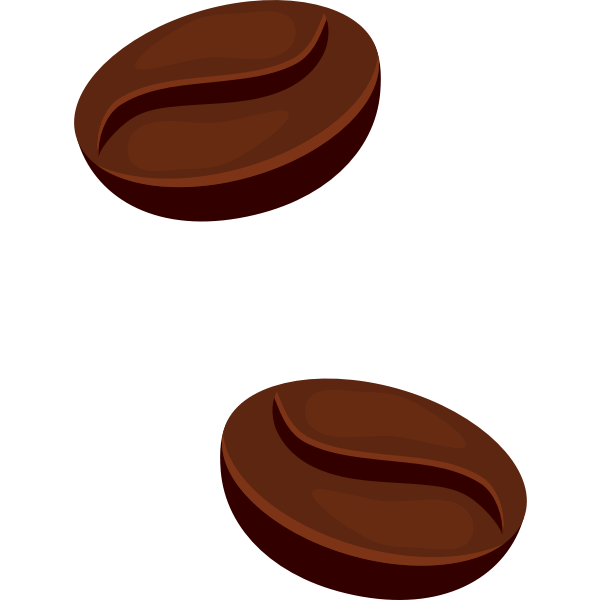
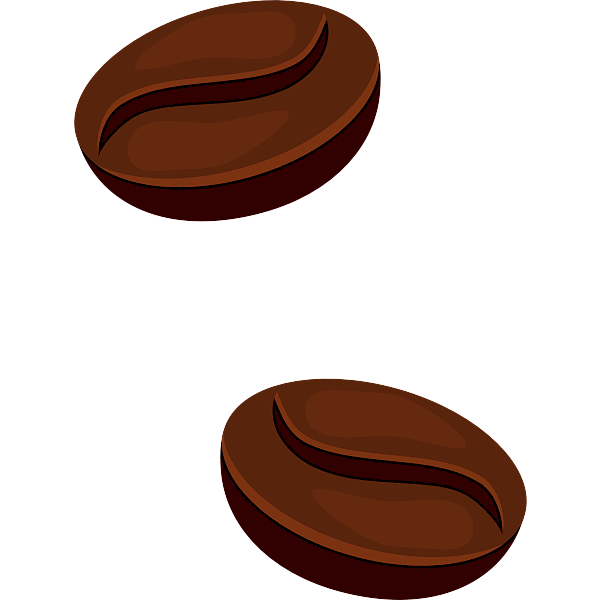
u bg color and comps

diff --git a/src/app/components/TodayMenu.tsx b/src/app/components/TodayMenu.tsx
@@ -1,50 +1,49 @@
-// components/TodayMenu.tsx
-
 const menuItems = [
     {
         title: "Classic Espresso",
         price: "45 Bath",
-        image: "/images/menu/menu4.jpg",
+        image: "/images/menu/menu3.jpeg",
         description:
-            "A rich, bold shot of pure espresso made from Northern Thai Arabica beans. Perfect to start your day.",
+            "Bold Northern Thai espresso — rich and energizing.",
     },
     {
         title: "Iced Thai Latte",
         price: "40 Bath",
-        image: "/images/menu/menu4.jpg",
+        image: "/images/menu/menu5.jpg",
         description:
-            "A refreshing blend of strong coffee, creamy milk, and a touch of sweetness served over ice.",
+            "Chilled Thai coffee with creamy sweetness.",
     },
     {
         title: "Drip Brew (Pour Over)",
-        price: "50 Bath",
-        image: "/images/menu/menu4.jpg",
+        price: "40 Bath",
+        image: "/images/menu/menu7.jpg",
         description:
-            "Slow-brewed using freshly ground beans from Chiang Mai's Doi Chang region. Smooth and aromatic.",
+            "Smooth pour-over from Chiang Mai’s finest beans.",
     },
     {
         title: "Cofee Matcha",
         price: "55 Bath",
-        image: "/images/menu/menu4.jpg",
+        image: "/images/menu/menu6.jpg",
         description:
-            "A vibrant matcha latte with a bold espresso shot layered on top. Earthy meets energizing.",
+            "Matcha and espresso blend — earthy and bold.",
     },
 ];
 
+
 export default function TodayMenu() {
     return (
-        <section className="text-white px-6 py-16">
+        <section className=" px-6 py-16">
             <div className="max-w-6xl mx-auto">
                 <div className="text-center mb-12">
                     <h2 className="text-3xl md:text-4xl font-bold italic mb-4">
                         Today's Menu
                     </h2>
-                    <p className="text-gray-400 max-w-xl mx-auto">
+                    <p className="max-w-xl mx-auto">
                         Explore our handcrafted selection of coffee drinks — each brewed
                         with beans sourced from local farms in Northern Thailand.
                     </p>
                 </div>
-                <div className="grid sm:grid-cols-2 lg:grid-cols-4 gap-10">
+                <div className="grid px-8 sm:px-3 sm:grid-cols-2 lg:grid-cols-4 gap-10">
                     {menuItems.map((item, index) => (
                         <div
                             key={index}
@@ -53,12 +52,12 @@ export default function TodayMenu() {
                             <img
                                 src={item.image}
                                 alt={item.title}
-                                className="w-40 h-40 object-cover rounded-md mb-4"
+                                className="w-30 h-30 object-cover rounded-md mb-4"
                             />
                             <div>
                                 <h3 className="text-xl font-semibold">{item.title}</h3>
                                 <p className="text-yellow-400 text-lg font-bold mb-2">{item.price}</p>
-                                <p className="text-gray-400 text-sm">{item.description}</p>
+                                <p className="text-sm">{item.description}</p>
                             </div>
                         </div>
                     ))}

diff --git a/src/app/components/layout/Footer.tsx b/src/app/components/layout/Footer.tsx
@@ -2,11 +2,12 @@ import { FaFacebookF, FaLinkedinIn, FaTwitter, FaDribbble } from "react-icons/fa
 
 export default function Footer() {
     return (
-        <footer className=" text-gray-400 px-6 py-10">
-            <div className="max-w-7xl mx-auto grid grid-cols-1 md:grid-cols-2 lg:grid-cols-4 gap-6 text-sm">
+        <footer className=" px-6 py-10">
+            <div className="max-w-2xl mx-auto grid grid-cols-2 gap-4 text-sm">
+                
                 {/* DailyDrip Section */}
                 <div>
-                    <h4 className="text-white text-lg font-semibold mb-2">DailyDrip</h4>
+                    <h4 className=" text-lg font-semibold mb-2">DailyDrip</h4>
                     <p>
                         A cozy coffee space in the heart of Chiang Mai, brewing locally sourced beans and delivering bold flavors with warm vibes.
                     </p>
@@ -14,7 +15,7 @@ export default function Footer() {
 
                 {/* Contact Info */}
                 <div>
-                    <h4 className="text-white text-lg font-semibold mb-2">CONTACT INFORMATION</h4>
+                    <h4 className=" text-lg font-semibold mb-2">CONTACT INFORMATION</h4>
                     <ul className="space-y-2">
                         <li>123 Nimmanhaemin Road,</li>
                         <li>Chiang Mai, Thailand 50200</li>
@@ -26,8 +27,8 @@ export default function Footer() {
             </div>
 
             {/* Bottom Line */}
-            <div className="mt-6 border-t border-gray-700 pt-6 text-center text-xs text-gray-500">
-                <p>
+            <div className="mt-6 border-t border-gray-700 pt-6 text-center text-xs">
+                <div>
                     © 2025 DailyDrip. All Rights Reserved. Designed by{" "}
                     <a href="https://bossbsynth.com" target="_blank" rel="noopener noreferrer" className="text-red-500 hover:underline">BossBsynth</a>{" "}
                     <div>
@@ -36,12 +37,12 @@ export default function Footer() {
                         and
                         <a href="https://www.pexels.com/photo/capturing-coffee-moment-with-smartphone-29074308/" className="text-red-500 hover:underline" target="_blank" rel="noopener noreferrer"> pexels </a>
                     </div>
-                </p>
+                </div>
 
                 {/* Social Icons */}
                 <div className="flex justify-center mt-4 gap-5 text-red-500 text-lg">
 
-                    <a href="#" className="hover:text-white"><FaFacebookF /></a>
+                    <a href="#"><FaFacebookF /></a>
                 </div>
             </div>
         </footer>

diff --git a/src/app/components/About.tsx b/src/app/components/About.tsx
@@ -1,32 +1,36 @@
-// components/About.tsx
+import BeanFloat from "./deco/BeanFloat";
 
 export default function About() {
     return (
-        <section className="text-white px-6 py-12 md:py-20">
-            <div className="max-w-5xl mx-auto">
+        <section className="px-8 sm:px-12 py-12 md:py-20">
+            <div className="max-w-5xl mx-auto relative">
                 <div className="mb-8">
                     <img
-                        src="/images/cofee/cofee.jpg"
+                        src="/images/gal/about.jpg"
                         alt="Cafe interior"
-                        className="h-60 md:h-80 w-full object-cover rounded-md shadow-lg"
+                        className="h-50 w-full md:h-80 object-cover rounded-md shadow-lg"
                     />
                 </div>
                 <h2 className="text-3xl md:text-4xl font-bold italic mb-6">
                     About DailyDrip
                 </h2>
-                <p className="text-gray-300 mb-4 leading-relaxed indent-5">
+                <p className="mb-3 leading-relaxed indent-5">
                     Located in the heart of Chiang Mai, DailyDrip is a cozy spot for coffee
                     lovers, creatives, and travelers. We brew with locally sourced beans from
                     Northern Thailand, roasted fresh in small batches.
                 </p>
-                <p className="text-gray-300 mb-6 leading-relaxed indent-5">
+                <p className="mb-6 leading-relaxed indent-5">
                     Whether you're grabbing a quick espresso or settling in to work, DailyDrip
                     brings you great coffee and warm vibes — one cup at a time.
                 </p>
 
-                <button className="border border-white text-white px-6 py-2 uppercase tracking-wide hover:bg-white hover:text-black hover-r">
+                <button className="border px-6 py-2 uppercase tracking-wide hover-r">
                     Our History
                 </button>
+
+                <div className="absolute bottom-0 -right-2 md:-right-4 opacity-70">
+                    <BeanFloat />
+                </div>
             </div>
         </section>
     );

diff --git a/src/app/components/ReviewCard.tsx b/src/app/components/ReviewCard.tsx
@@ -34,7 +34,7 @@ export default function ReviewCard() {
     const { name, text, image, rating } = reviews[current];
 
     return (
-        <section className="px-4 py-16 text-white">
+        <section className="px-4 py-16">
             <div className="max-w-2xl px-8 mx-auto relative">
                 <div className="relative rounded-md overflow-hidden shadow-lg">
                     <img
@@ -42,7 +42,7 @@ export default function ReviewCard() {
                         alt={name}
                         className="w-full h-[450px] object-cover"
                     />
-                    <div className="absolute inset-0 bg-black/70 p-8 flex flex-col justify-center">
+                    <div className="absolute inset-0 bg-white/40 p-10 md:p-14 flex flex-col justify-center">
                         <p className="text-lg italic mb-4 max-w-xl">{text}</p>
                         <div className="flex items-center gap-1 mb-2">
                             {[...Array(rating)].map((_, i) => (

diff --git a/src/app/components/Hero.tsx b/src/app/components/Hero.tsx
@@ -1,12 +1,12 @@
 export default function Hero() {
     return (
-        <section className="relative h-screen flex items-center justify-center bg-black">
+        <section className="relative h-screen flex items-center justify-center">
             <div
                 className="absolute inset-0 bg-cover bg-center z-0 blur-xs" //[inset-0] = (t-0 r-0 l-0 b-0) = stretch and fill its entire parent.
                 style={{ backgroundImage: "url('/images/hero/cafe.jpeg')" }}
             />
-            <div className="absolute inset-0 bg-black/55 z-0" />
-            <div className="relative z-10 text-white text-center px-4 max-w-3xl">
+            <div className="absolute inset-0 bg-white/55 z-0" />
+            <div className="relative z-10 text-center px-4 max-w-3xl">
                 <div>
                     <h1 className="relative text-4xl md:text-5xl font-bold leading-tight mb-4 hover-r">
                         DailyDrip

diff --git a/src/app/CSS/animation.css b/src/app/CSS/animation.css
@@ -28,3 +28,19 @@
 .float {
     animation: floatScale 4s ease-in-out infinite;
 }
+
+@keyframes rotateSlow {
+    0% {
+        transform: rotate(0deg);
+    }
+
+    100% {
+        transform: rotate(360deg);
+    }
+}
+
+.rotate-slow {
+    animation: rotateSlow 10s linear infinite;
+}
+
+/* =========================================================*/

diff --git a/src/app/components/deco/BeanFloat.tsx b/src/app/components/deco/BeanFloat.tsx
@@ -1,0 +1,7 @@
+export default function BeanFloat() {
+    return (
+        <div className="rotate-slow">
+            <img src="/svg/coffee-beans1.png" alt="coffee png" className="w-12 h-12" />
+        </div>
+    );
+}

diff --git a/src/app/CSS/globals.css b/src/app/CSS/globals.css
@@ -1,5 +1,10 @@
 @import "tailwindcss";
 
 body {
-    @apply bg-[#111] text-white;
+    @apply bg-[#fff] text-[#000000];
+}
+
+html,
+body {
+    overflow-x: hidden;
 }
